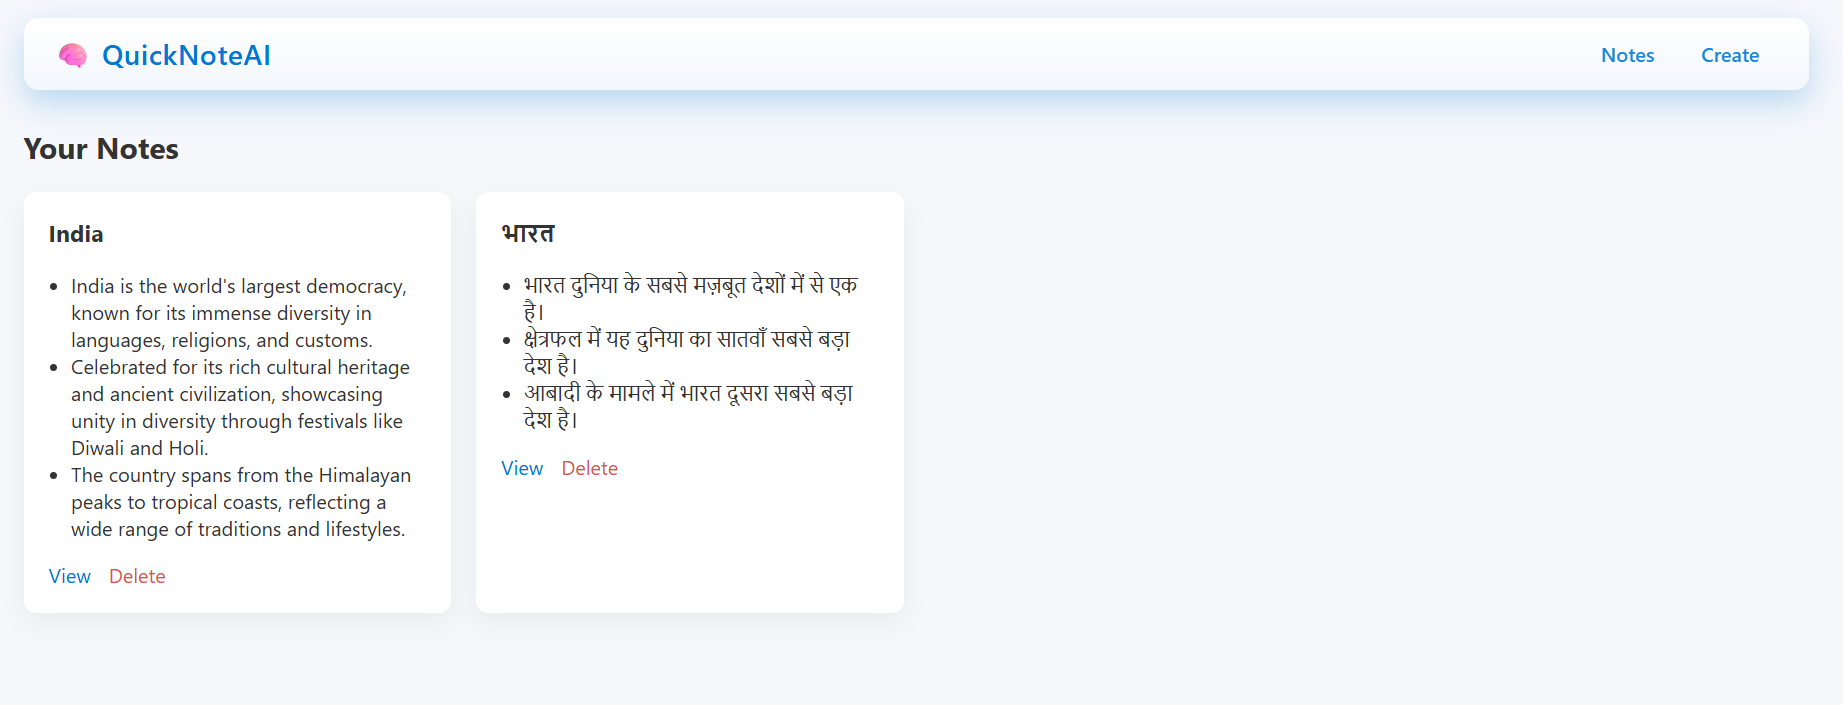
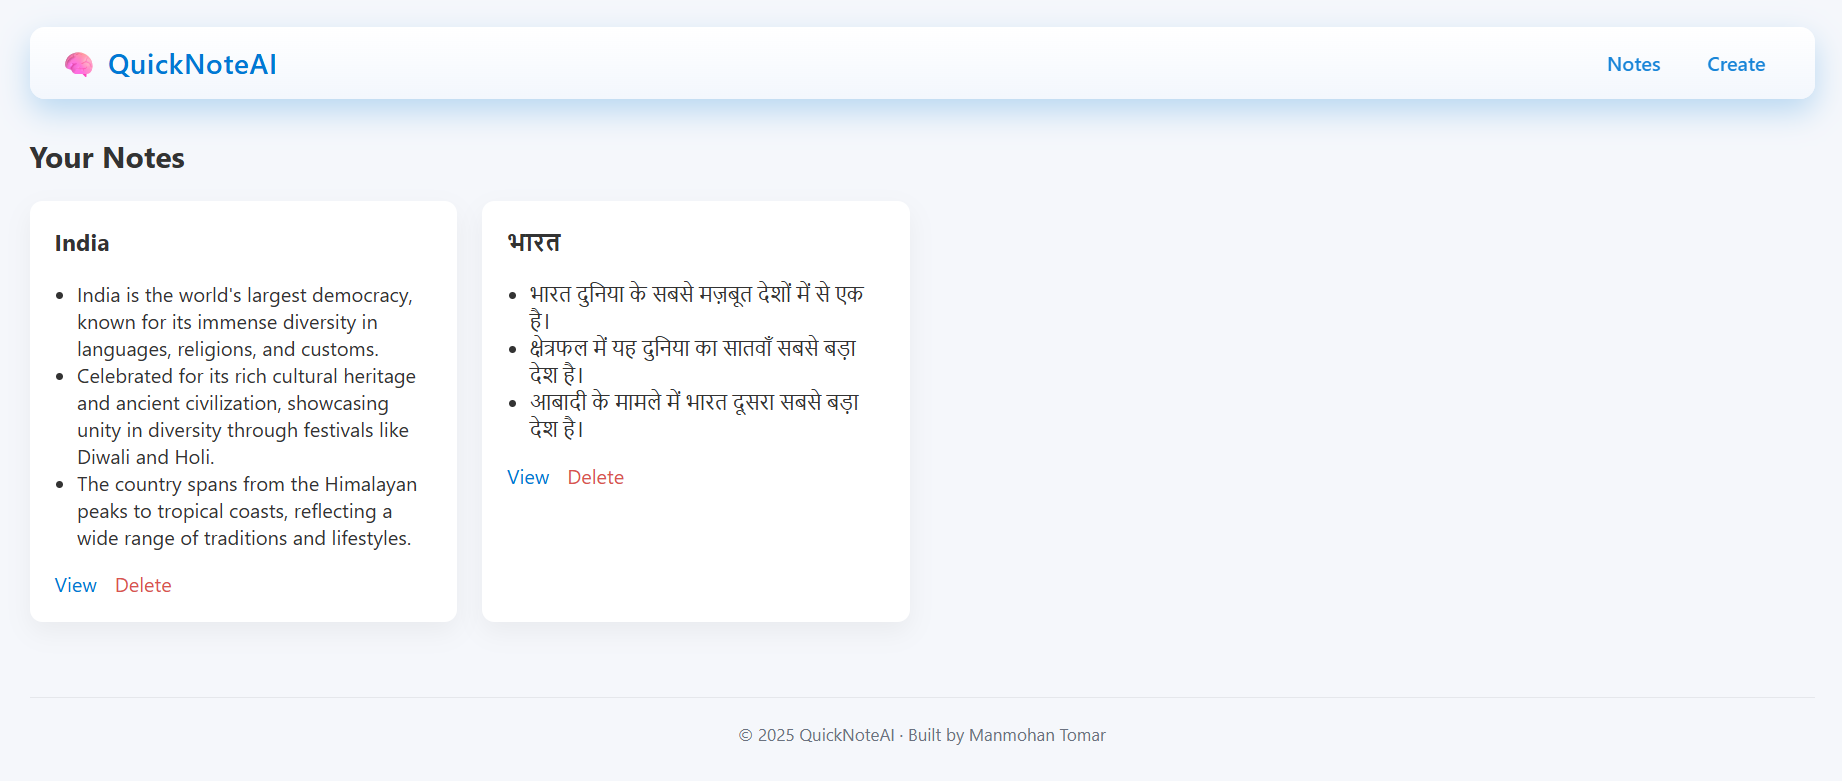
Added Footer

diff --git a/static/style.css b/static/style.css
@@ -182,3 +182,13 @@ nav a {
 .primary-btn:active {
     transform: translateY(0);
 }
+
+/* Footer */
+.app-footer {
+    margin-top: 60px;
+    padding: 20px 0;
+    text-align: center;
+    font-size: 0.85rem;
+    color: #6b7280;
+    border-top: 1px solid #e5e7eb;
+}

diff --git a/templates/base.html b/templates/base.html
@@ -17,5 +17,10 @@
 </header>
 <hr class="divider">
     {% block content %}{% endblock %}
+
+<footer class="app-footer">
+    © 2025 QuickNoteAI · Built by Manmohan Tomar
+</footer>
+
 </body>
 </html>

diff --git a/README.md b/README.md
@@ -1,25 +1,30 @@
-QuickNoteAI - AI-powered notebook using Flask App (MVP)
-Features in This Version
--Create notes
--View all notes
--View single note
--Delete notes
--SQLite database
--Clean structure (Azure-ready)
+# QuickNoteAI
+AI-powered note-taking web application built with Flask and deployed on Azure using GitHub Actions CI/CD. Single-user, Public and with No authentication as it's only for demo.
 
-ChatGPT/Copilot are general-purpose AI tools. QuickNoteAI is a context-aware personal knowledge tool.
-Example-
-1. Student writes: Daily lecture notes and clicks “Weekly Summary”.
-   AI generates: Key concepts, Important formulas, Exam-focused highlights
+## Features
+- Create & manage notes
+- AI-generated summaries using OpenAI API
+- Clean, responsive UI
+- Secure environment variables
+- Automated CI/CD pipeline
 
-2. Developer stores: Meeting notes
-   AI generates: Action items, Follow-ups, Technical summaries
+## Tech Stack
+- Flask (Python)
+- OpenAI API
+- SQLite
+- Azure App Service
+- GitHub Actions (CI/CD)
 
-ChatGPT doesn’t remember this for them.
+## Architecture
+- Flask MVC pattern
+- Environment variables for secrets
+- Gunicorn production server
 
-You would need OPENAI_API_KEY to run in your local.
+## CI/CD Pipeline
+- Triggered on push to main
+- Builds and deploys automatically to Azure Web App
 
-View Project Images at - 
+## Screenshots
 ### Home Page
 ![Home Page](images/HomePage.png)
 
@@ -29,4 +34,19 @@ View Project Images at -
 ### Create Note Page
 ![Create note](images/CreateNotePage.png)
 
+## How to Run Locally
+- Get GitHub code 
+- You need to have OPENAI_API_KEY for your local environment. Set local environment 'setx OPENAI_API_KEY "openai api key"'.
+- Run app.py 
 
+## Live Demo
+https://quicknoteai-webapp-dcc9hrdmgzf7bqdp.centralindia-01.azurewebsites.net/
+
+## How it different from Copilot, Chatgpt and Gemini ai.
+ChatGPT/Copilot/Gemini etc. are general-purpose AI tools. QuickNoteAI is a context-aware personal knowledge tool.
+Example-
+1. Student writes: Daily lecture notes and clicks “Weekly Summary”.
+   AI generates: Key concepts, Important formulas, Exam-focused highlights
+2. Developer stores: Meeting notes
+   AI generates: Action items, Follow-ups, Technical summaries
+ChatGPT/Copilot/Gemini etc. doesn’t remember this for them.
